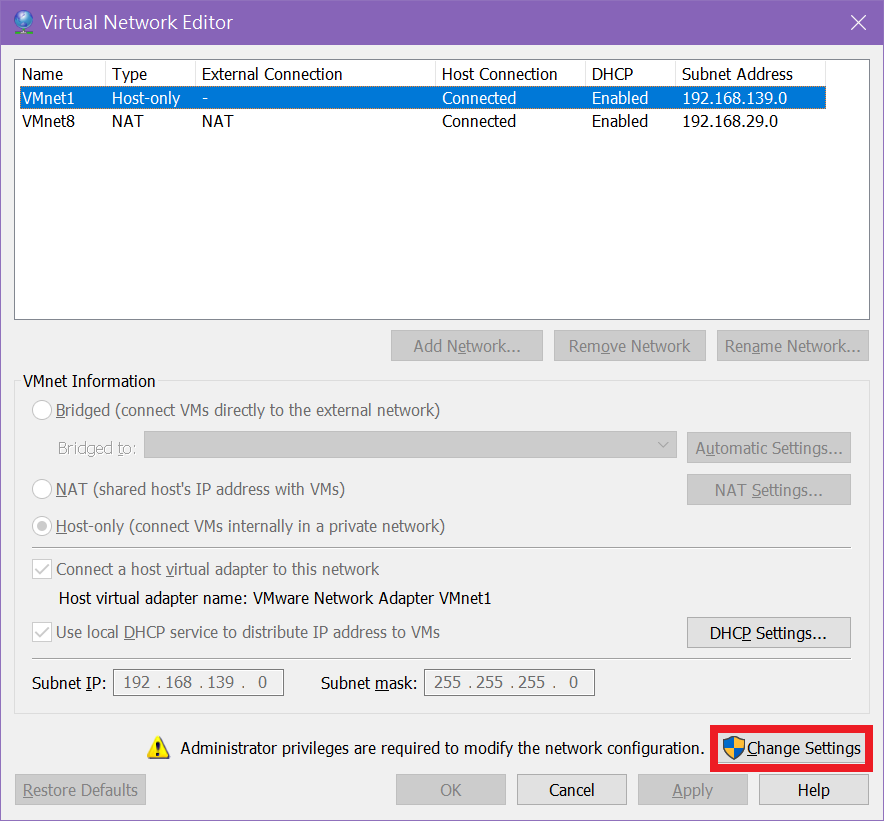
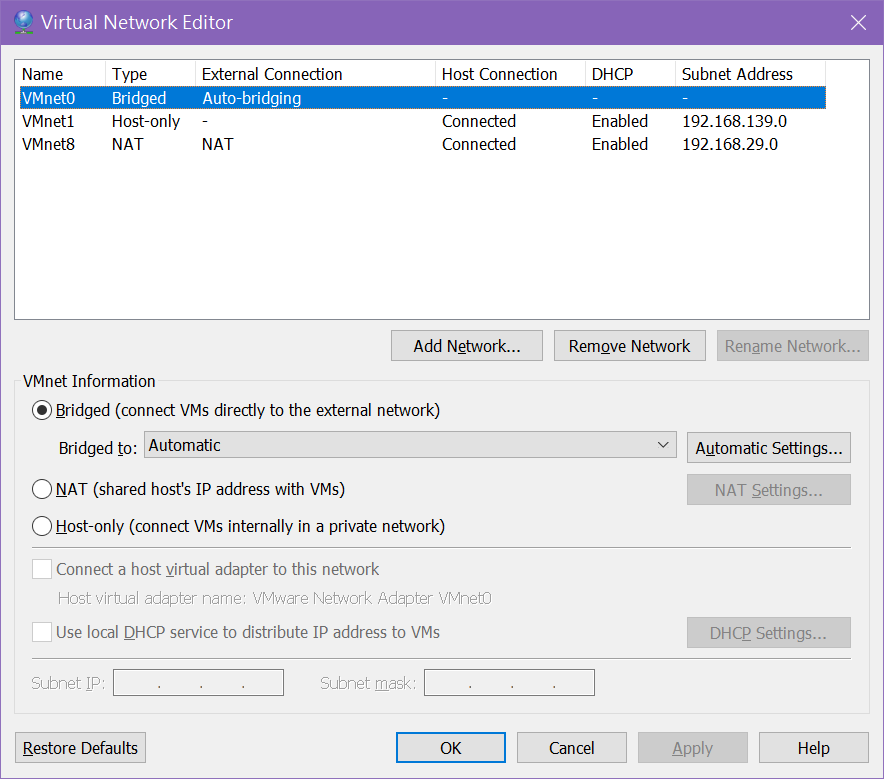
Update README.md

diff --git a/README.md b/README.md
@@ -5,7 +5,11 @@ This example is using OM2M to implement getting the phone's gps and transmitting
 
 ![OM2M_01](images/OM2M_01.PNG?raw=true)
 
-## 虛擬環境硬體調整
+--------------------------
+
+## Virtual Environment Hardware setting
+
+Open VMware as administer
 
 * CPU core
 * Memory
@@ -17,15 +21,15 @@ Edit -> Virtual Network Editor
 
 ![bridge_02](images/bridge_02.png?raw=true)
 
-![bridge_03](images/bridge_03.png?raw=true)
-
-## Ubuntu 環境調整
+## Ubuntu OS setting
 
 * All settings -> Displays -> 1440 x 900
 
-## VMware tools 安裝
+--------------------------
 
-Copy [ VMware Tools 10.1.15-6627299.tar.gz ] to Desktop
+## VMware tools installation
+
+Copy `VMware Tools 10.1.15-6627299.tar.gz` to Desktop
 
 ```
 cd /home
@@ -36,6 +40,8 @@ cd vmware-tools-distrib
 sudo su -c ./vmware-install.pl
 yes
 ```
+
+--------------------------
 
 ## Start OM2M IN-CSE
 
@@ -58,7 +64,7 @@ sh start.sh
 http://localhost:8080/webpage
 
 > username: admin
-
+>
 > password: admin
 
 ![webpage_01](images/webpage_01.png?raw=true)
@@ -72,6 +78,7 @@ Open new terminal window
 ```
 sudo node-red
 ```
+> password: iotclass
 
 http://127.0.0.1:1880/
 
